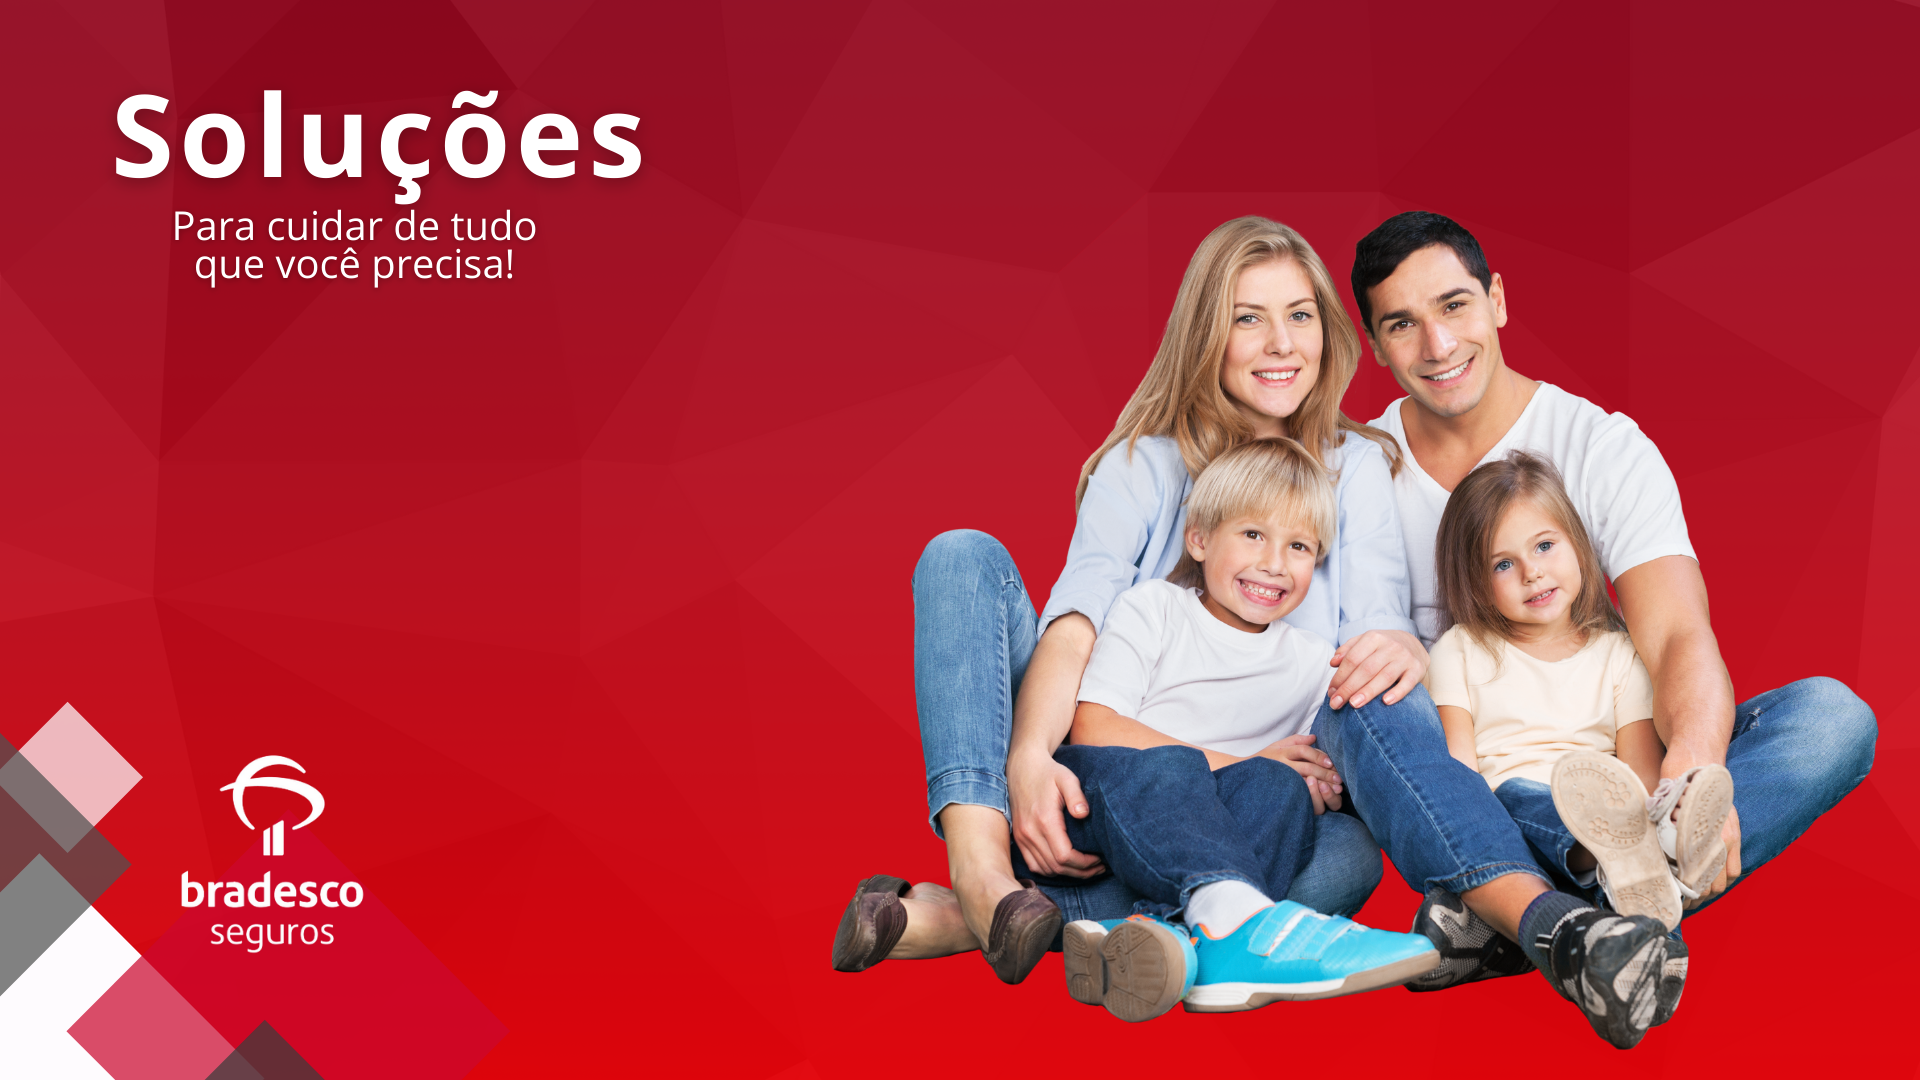
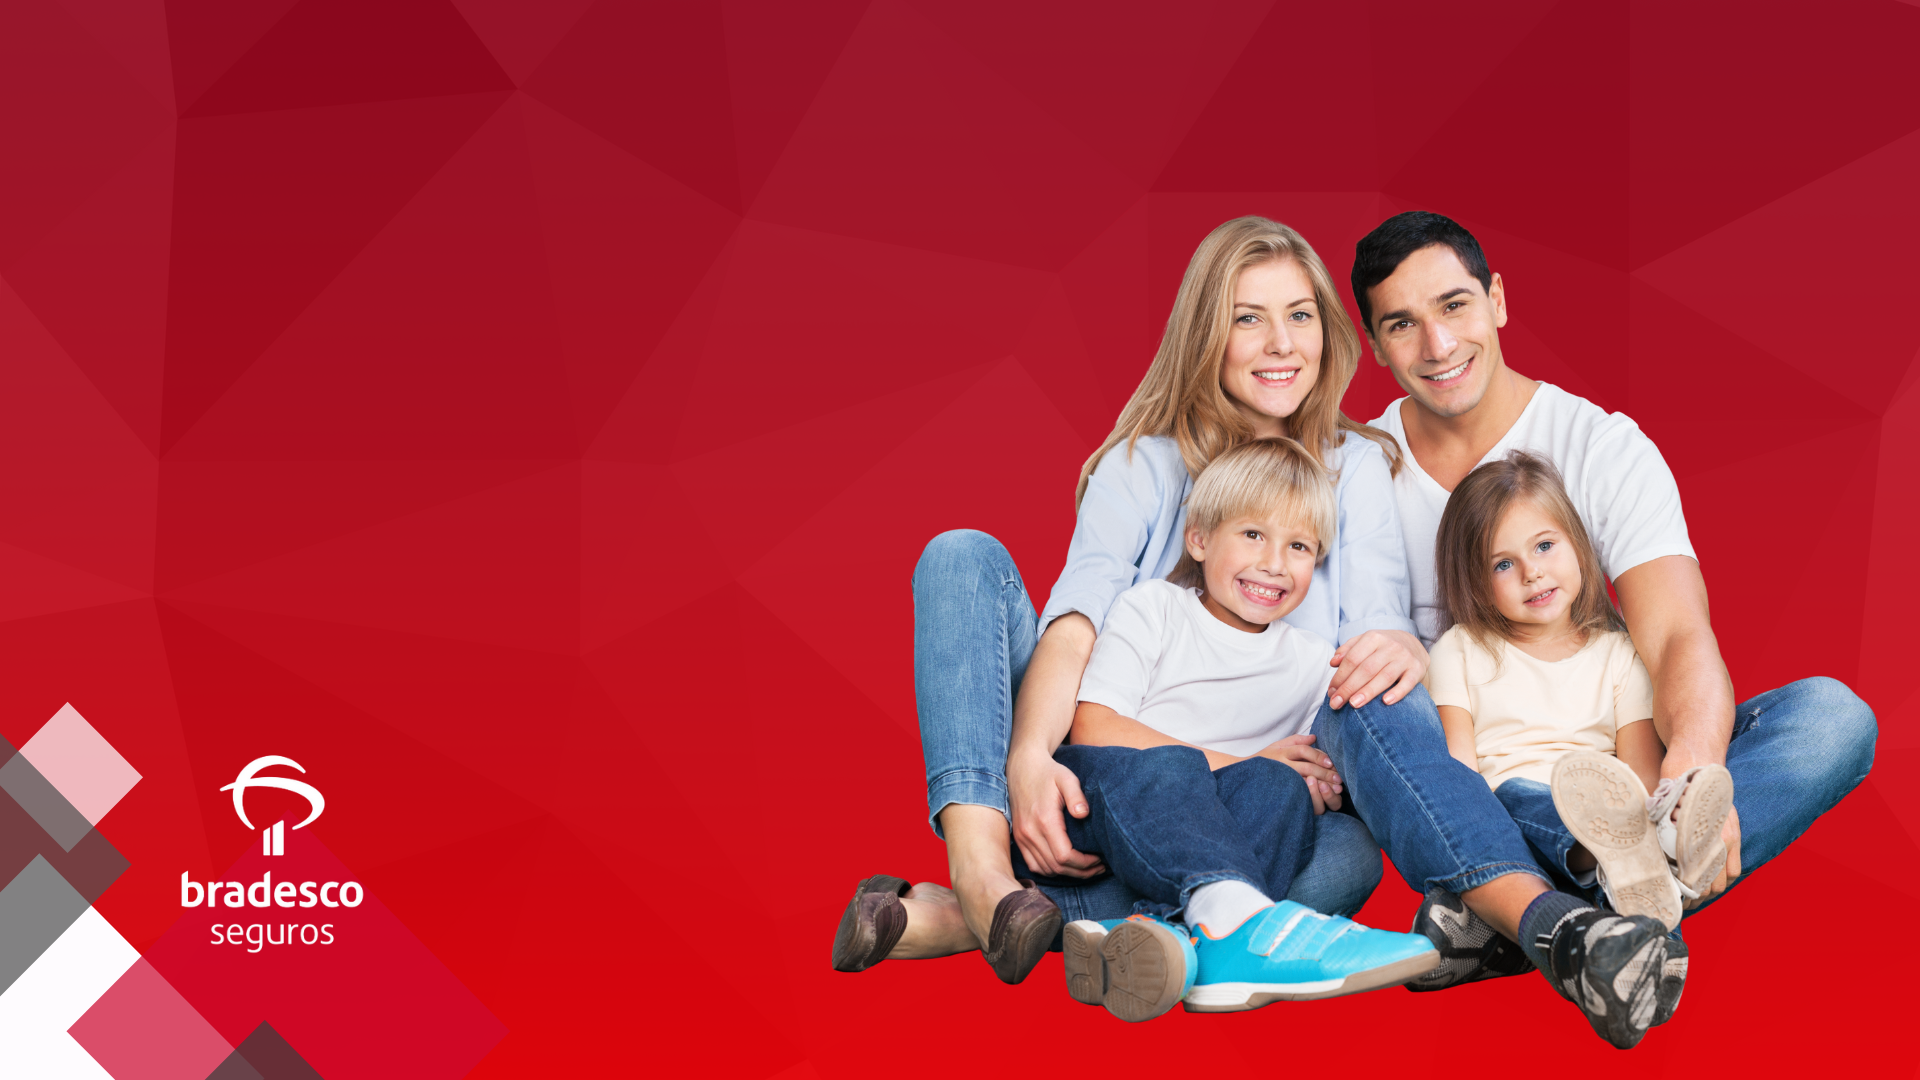
adicionando bg sem titulo

Changed region(s): [[0.0625, 0.0917, 0.3438, 0.275]]

diff --git a/sulamerica.html b/sulamerica.html
@@ -13,6 +13,7 @@
     <meta property="og:description" content=" ">
     <meta property="og:url" content=" ">
     <meta property="og:site_name" content=" ">
+
     <link rel="stylesheet" href="https://stackpath.bootstrapcdn.com/bootstrap/4.5.2/css/bootstrap.min.css"
         integrity="sha384-JcKb8q3iqJ61gNV9KGb8thSsNjpSL0n8PARn9HuZOnIxN0hoP+VmmDGMN5t9UJ0Z" crossorigin="anonymous">
     <link rel="stylesheet" href="public/css/style.css">
@@ -21,6 +22,7 @@
     <link rel="stylesheet" href="https://stackpath.bootstrapcdn.com/font-awesome/4.7.0/css/font-awesome.min.css">
     <link rel="stylesheet" href="https://cdnjs.cloudflare.com/ajax/libs/font-awesome/4.7.0/css/font-awesome.min.css">
     <link rel="icon" href="public/image/favicon.png" type="image/gif" sizes="16x16">
+
     <script src="https://code.jquery.com/jquery-3.5.1.slim.min.js" integrity="sha384-DfXdz2htPH0lsSSs5nCTpuj/zy4C+OGpamoFVy38MVBnE+IbbVYUew+OrCXaRkfj" crossorigin="anonymous" defer></script>
     <script src="https://cdn.jsdelivr.net/npm/bootstrap@4.5.3/dist/js/bootstrap.bundle.min.js" integrity="sha384-ho+j7jyWK8fNQe+A12Hb8AhRq26LrZ/JpcUGGOn+Y7RsweNrtN/tE3MoK7ZeZDyx" crossorigin="anonymous" defer></script>
     <script src="https://cdnjs.cloudflare.com/ajax/libs/slick-carousel/1.9.0/slick.min.js" defer></script>
@@ -31,9 +33,9 @@
     <script src="/public/utils/inputMaskHandler.js" defer></script>
 
     <!-- Template Mail Sender JS File -->
-    <script type="text/javascript" src="https://cdn.jsdelivr.net/npm/@emailjs/browser@3/dist/email.min.js"> </script>
-    <script type="text/javascript" src="https://cdn.jsdelivr.net/npm/sweetalert2@11"></script>
-    <script type="module" src="/public/utils/mailSender.js"></script>
+    <script type="text/javascript" src="https://cdn.jsdelivr.net/npm/@emailjs/browser@3/dist/email.min.js" defer> </script>
+    <script type="text/javascript" src="https://cdn.jsdelivr.net/npm/sweetalert2@11" defer></script>
+    <script type="module" src="/public/utils/mailSender.js" defer></script>
 
 
     <title>ENVIDA</title>

diff --git a/public/css/style.css b/public/css/style.css
@@ -75,7 +75,7 @@ a:hover {
 }
 
 .appointment-porto-seguro {
-    background: url(/public/image/porto-seguro-bg.png) center center;
+    background: url(/public/image/portoseguro-bg.png) center center;
     background-repeat: no-repeat;
     background-size: cover;
 }
